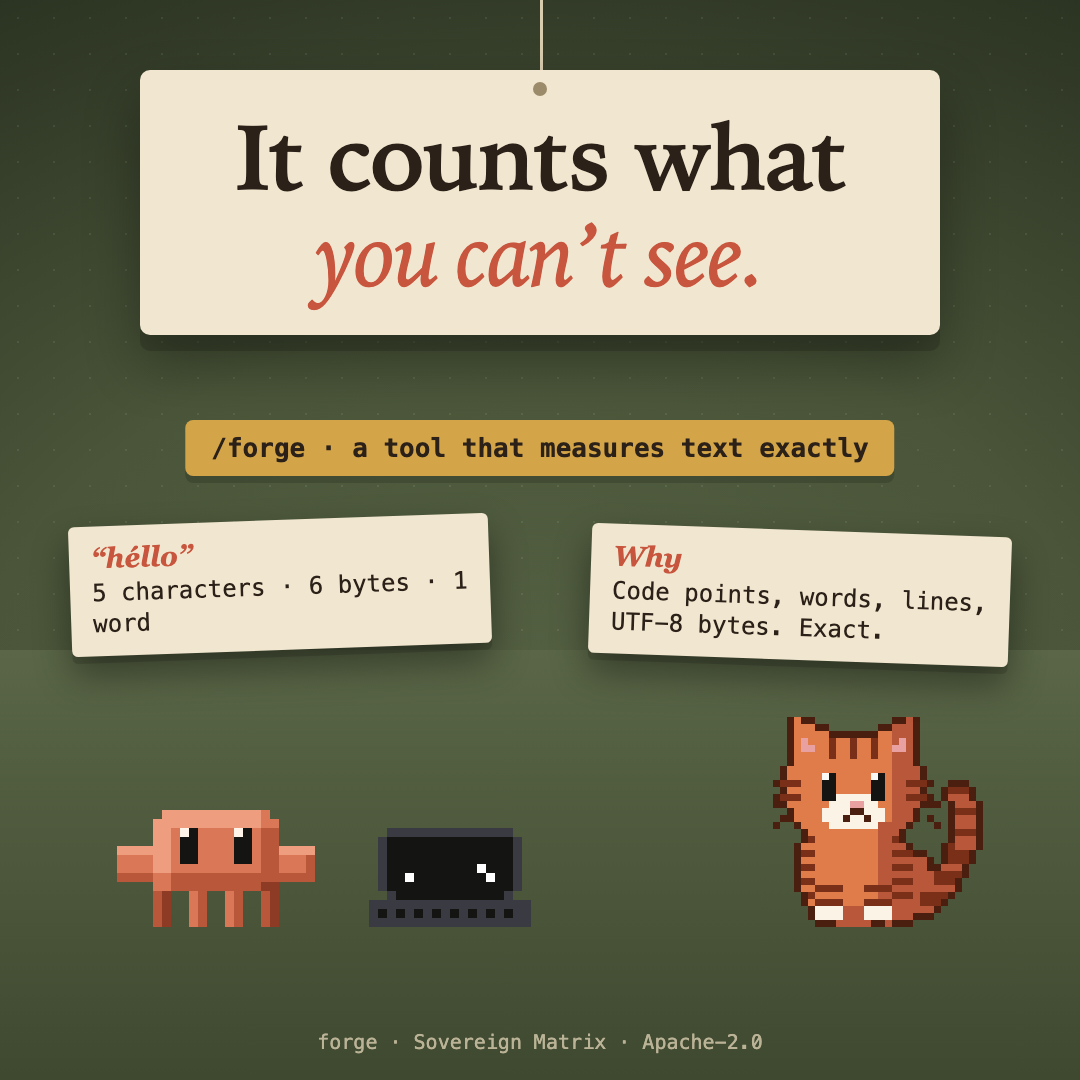
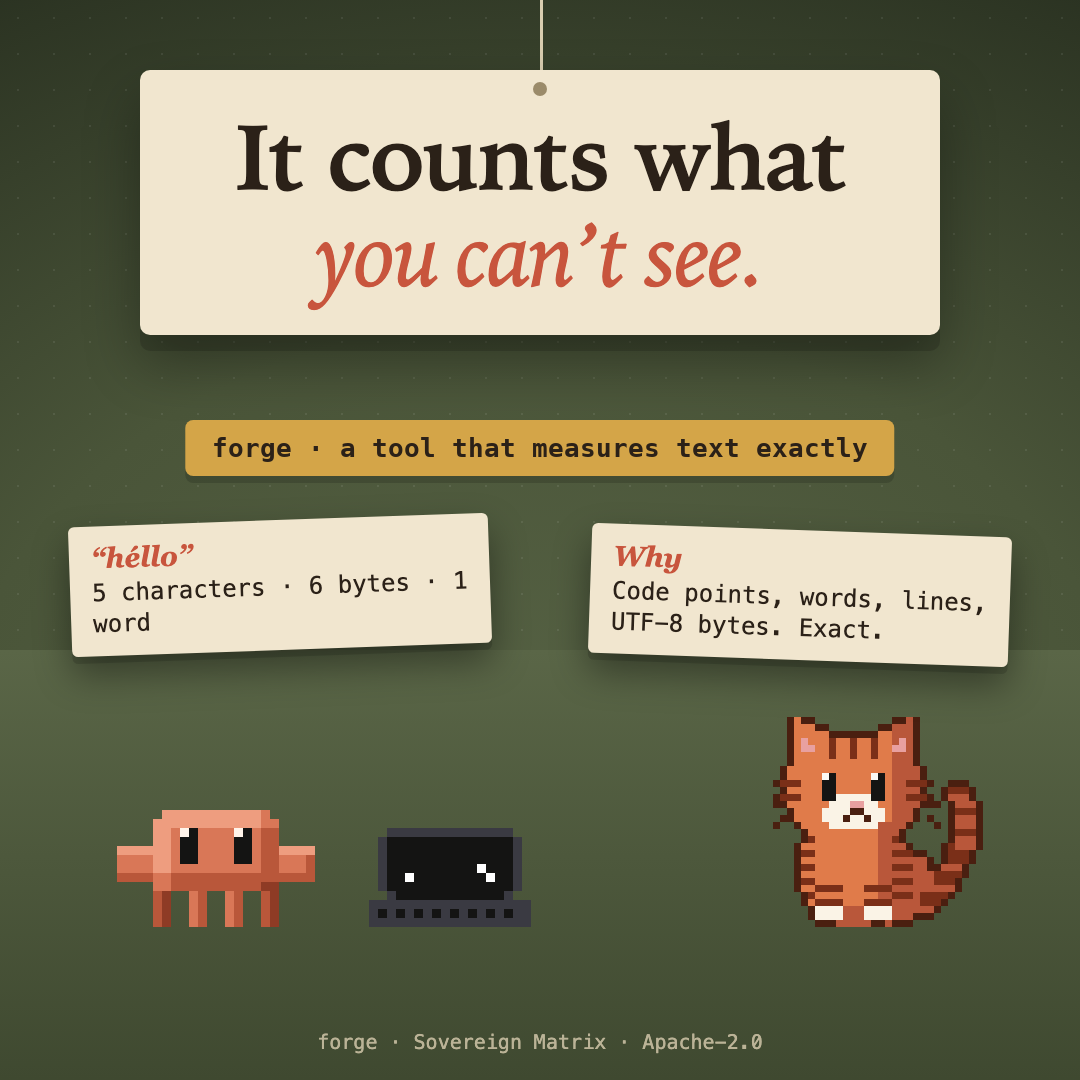
critter-buddy 0.10.0: the family painted in the prompt box, moods in words, a horizon, a sun and a moon; forge's preview no longer says /forge

Changed region(s): [[0.1833, 0.3972, 0.7944, 0.4278]]

diff --git a/plugins/critter-buddy/hooks/register.tsx b/plugins/critter-buddy/hooks/register.tsx
@@ -2,7 +2,7 @@ import { atom, read, update } from 'claude-code'
 import type { Register } from 'claude-code'
 
 import type { Look, Scene } from '../types'
-import { NAMES_DEFAULT, FEELS, stepFeel, cadence, controlLabels, suggest, draftRuns, diaryMarkdown, diaryParts, catchIn, cleanName, named, faceRuns, faceSvg, initial, paint, paintBig, paintBigSvg, paintOrb, paintOrbSvg, paintSvg, paintWizard, paintWizardSvg, poke, quip, react, startGame, step, stopGame } from './scene'
+import { NAMES_DEFAULT, FEELS, moodLine, skyOf, stepFeel, cadence, controlLabels, suggest, draftRuns, diaryMarkdown, diaryParts, catchIn, cleanName, named, faceRuns, faceSvg, initial, paint, paintBig, paintBigSvg, paintOrb, paintOrbSvg, paintSvg, paintWizard, paintWizardSvg, poke, quip, react, startGame, step, stopGame } from './scene'
 import type { Feel, Names, FaceKind, Reaction, Run, Svgd } from './scene'
 
 // `shape` tags the stored form: a value an earlier version stored is declined, not misread.
@@ -55,7 +55,6 @@ const hourOf = (ms: number) => Math.floor(ms / 3_600_000 + 2) % 24
 const isNight = (ms: number) => hourOf(ms) >= 18 || hourOf(ms) < 6
 const hhmm = (ms: number) => `${String(hourOf(ms)).padStart(2, '0')}:${String(Math.floor(ms / 60_000) % 60).padStart(2, '0')}`
 
-const bar = (n: number) => '█'.repeat(Math.round(n / 10)) + '░'.repeat(10 - Math.round(n / 10))
 const moodOf = (s: Scene) => (s.trust < 30 ? 'sulking' : s.trust > 80 ? 'devoted' : s.joy > 75 ? 'pleased' : 'unbothered')
 const pick = <T,>(list: readonly T[], key: string): T => {
   let h = 7
@@ -94,13 +93,6 @@ const kit = (els: any, surface: string) => {
   const face = (kind: FaceKind) => (vector ? svg(faceSvg(kind, 1), `the critter's face: ${kind}`) : faceOf(Text, kind))
   return { Box, Text, Button, vector, svg, face }
 }
-
-// Night's sky for the desktop backdrop: stars at fixed places, so a redraw does not shuffle them.
-const STARS = Array.from({ length: 22 }, (_, i) => {
-  const a = Math.imul(i + 1, 2654435761) >>> 0
-  const b = Math.imul(i + 11, 1664525) >>> 0
-  return { top: a % 34, left: b % 150, big: i % 5 === 0 }
-})
 
 /** A short sound, only when the person has turned sound on; a player that is missing never matters. */
 const ring = async ($: any, which: 'cast' | 'purr') => {
@@ -594,16 +586,19 @@ export const register: Register = on => {
   // ---- the window behind the conversation: cream Day, glass Night with a few stars (the desktop app only) ----
   on('ui.render', { component: 'Backdrop' }, async ($, e, next) => {
     if (e.props.plugin !== 'critter-buddy') return next(e)
-    const night = (await read($, world)) === 'night'
-    const { Box, Text, face, vector, svg } = kit($.ui.resolve(e), e.surface)
+    const sky = skyOf((await read($, world)) === 'night' ? 'night' : 'day')
+    const { Box, Text } = kit($.ui.resolve(e), e.surface)
     return (
-      <Box position="absolute" top={0} left={0} width="100%" height="100%" backgroundColor={night ? '#141413' : '#faf9f5'}>
-        {night &&
-          STARS.map((st, i) => (
-            <Box key={`s${i}`} position="absolute" top={st.top} left={st.left}>
-              <Text color={st.big ? '#d4a548' : '#8f7cc4'} dimColor={!st.big}>{st.big ? '✦' : '·'}</Text>
-            </Box>
-          ))}
+      <Box position="absolute" top={0} left={0} width="100%" height="100%" backgroundColor={sky.paper}>
+        <Box position="absolute" bottom={0} left={0} width="100%" height="30%" backgroundColor={sky.ground} />
+        <Box position="absolute" top={2} right={6}>
+          <Text color={sky.bodyColor}>{sky.body}</Text>
+        </Box>
+        {sky.stars.map((st, i) => (
+          <Box key={`s${i}`} position="absolute" top={st.top} left={st.left}>
+            <Text color={st.big ? '#d4a548' : '#8f7cc4'} dimColor={!st.big}>{st.big ? '✦' : '·'}</Text>
+          </Box>
+        ))}
       </Box>
     )
   }).catch(($, e, next) => next(e))
@@ -611,13 +606,14 @@ export const register: Register = on => {
   // ---- the stage: our own critter alone on an empty screen, walking and idling as the session runs ----
   on('ui.render', { component: 'Pane', requestId: STAGE }, async ($, e) => {
     const s = await read($, scene)
+    const nmS = await read($, names)
     const { Box, Text, Button, vector, svg } = kit($.ui.resolve(e), e.surface)
     const cols = Math.min(72, e.props.bodyColumns || 60)
     // the cat is off the stage; the critter keeps to what it is doing, else it idles
     const alone: Scene = { ...s, cols, kx: -80, look: s.look === 'wizard' || s.look === 'done' ? s.look : 'idle' }
     return (
       <Box flexDirection="column">
-        <Text bold>{'Stage'}</Text>
+        <Text bold>{`${nmS.pip}'s stage · ${(await read($, world)) === 'night' ? 'night' : 'day'}`}</Text>
         {vector ? svg(paintSvg(alone, 5), 'The critter alone on a stage, walking and idling') : rowsOf(Text, paint(alone), 's')}
         <Text dimColor>{`${s.label} · ${s.tools} tools · ${s.skills} skills`}</Text>
         <Box flexDirection="row">
@@ -654,8 +650,8 @@ export const register: Register = on => {
               </Text>
             ))}
         <Text bold>{'Moods'}</Text>
-        <Text>{`trust ${bar(s.trust)} ${Math.round(s.trust)}`}</Text>
-        <Text>{`joy   ${bar(s.joy)} ${Math.round(s.joy)}`}</Text>
+        <Text>{moodLine('trust', s.trust)}</Text>
+        <Text>{moodLine('joy', s.joy)}</Text>
         <Text dimColor>{`${s.stats.turns} turns · ${s.tools} tools · ${s.skills} skills · ${s.stats.errors} errors · ${s.stats.pets} pets · ${s.stats.commits} commits · ${s.stats.knocks} knocked off`}</Text>
         <Box flexDirection="row">
           <Button key="p" label="pet" hotkey="p" onPress={() => update($, scene, (x: Scene): Scene => react(x, 'pet'))} />

diff --git a/plugins/critter-buddy/tests/critter.test.tsx b/plugins/critter-buddy/tests/critter.test.tsx
@@ -1,7 +1,7 @@
 import { expect, test } from 'claude-code/testing'
 
 import type { Look, Scene } from '../types'
-import { cadence, suggest, stepFeel, FEELS, controlLabels, draftRuns, diaryMarkdown, diaryParts, NAMES_DEFAULT, cleanName, named, CAT_H, CAT_W, CRIT_W, LAPTOP_W, H, PORTRAIT_W, canvasOf, paintBigSvg, portraitCanvas, catchIn, faceRuns, faceSvg, initial, paintOrbSvg, paintSvg, paintWizardSvg, svgOf, isAsleep, paint, paintBig, paintOrb, paintWizard, quip, react, startGame, step, WIZARD_COLS } from '../hooks/scene'
+import { cadence, suggest, moodLine, skyOf, stepFeel, FEELS, controlLabels, draftRuns, diaryMarkdown, diaryParts, NAMES_DEFAULT, cleanName, named, CAT_H, CAT_W, CRIT_W, LAPTOP_W, H, PORTRAIT_W, canvasOf, paintBigSvg, portraitCanvas, catchIn, faceRuns, faceSvg, initial, paintOrbSvg, paintSvg, paintWizardSvg, svgOf, isAsleep, paint, paintBig, paintOrb, paintWizard, quip, react, startGame, step, WIZARD_COLS } from '../hooks/scene'
 
 test('the cat sprite is rectangular, sixteen by twenty, in every pose', () => {
   const base = { ...initial(), cols: 40, cx: -40, kx: 6 }
@@ -592,6 +592,7 @@ test('the backdrop is cream by day and a starry glass by night, and only for thi
   await $.session.start({ cwd: '/', surface: 'desktop', isInteractive: true }) // the stub clock reads 03:00, so night
   const ui = await $.ui.mount({ ...row('Backdrop', { id: 'night', plugin: 'critter-buddy', glass: { blur: 18, opacity: 0.6 } }), surface: 'desktop' } as never)
   expect(await ui.find({ type: 'Text', text: /[✦·]/ })).toBeDefined()
+  expect(await ui.find({ type: 'Text', text: /☾/ })).toBeDefined() // a moon by night
   await ui.unmount()
   const other = await $.ui.mount({ ...row('Backdrop', { id: 'x', plugin: 'someone-else', glass: false }), surface: 'desktop' } as never)
   expect(await other.find({ type: 'Text', text: /engine/ })).toBeDefined() // another plugin's backdrop is left alone
@@ -922,4 +923,54 @@ test('/critter feel sets the dial, says so, offers its words, and calm silences 
   expect(suggest('/critter ', 9).map(r => r.text)).toContain('feel')
   expect(draftRuns('/critter feel calm', NAMES_DEFAULT)[2]).toMatchObject({ color: '#4fa39a' })
   expect(draftRuns('/critter feel loud', NAMES_DEFAULT)[2]).toMatchObject({ color: '#d4a548', underline: true })
+})
+
+// ---- the family in the prompt box, the moods in words, the sky behind the chat ----
+test('the family commands are painted too: /diary, /stunt and /everywhere, each with its own ghost line', () => {
+  const draft = (t: string) => draftRuns(t, NAMES_DEFAULT)
+  const diary = draft('/diary')
+  expect(diary[0]).toMatchObject({ start: 0, end: 6, color: '#d97757', bold: true })
+  expect(diary.at(-1)).toMatchObject({ start: 6, end: 6, dimColor: true, virtualText: ' · what Claude did, in order' })
+  expect(draft('/diary copy')[1]).toMatchObject({ start: 7, end: 11, color: '#4fa39a' })
+  expect(draft('/diary copy').at(-1)!.virtualText).toBe(' · the whole session, as markdown')
+  expect(draft('/diary clone')[1]).toMatchObject({ color: '#d4a548', underline: true })
+  expect(draft('/stunt').at(-1)!.virtualText).toBe(' · the critter in a pane, a card per call')
+  expect(draft('/everywhere').at(-1)!.virtualText).toBe(' · your three most-used tools')
+  expect(draft('/diaryish')).toEqual([])
+  expect(draft('/critter').length).toBe(1) // the bare /critter stays quiet, as before
+})
+
+test('the moods are said in words as well as bars', () => {
+  expect(moodLine('trust', 12)).toBe('trust █░░░░░░░░░ 12 · wary')
+  expect(moodLine('trust', 50)).toContain('· warming')
+  expect(moodLine('trust', 70)).toContain('· fond')
+  expect(moodLine('trust', 95)).toContain('· devoted')
+  expect(moodLine('joy', 10)).toContain('· flat')
+  expect(moodLine('joy', 50)).toContain('· content')
+  expect(moodLine('joy', 70)).toContain('· bright')
+  expect(moodLine('joy', 90)).toContain('· delighted')
+  expect(moodLine('joy', 150)).toContain('100') // out of range is held to the scale
+})
+
+test('the sky: a sun by day and a moon by night, a horizon either way, and the stars stay put', () => {
+  expect(skyOf('day')).toMatchObject({ body: '●', bodyColor: '#d4a548', ground: '#f2eee3', paper: '#faf9f5' })
+  expect(skyOf('night')).toMatchObject({ body: '☾', bodyColor: '#efe4c4', ground: '#1c1b19', paper: '#141413' })
+  expect(skyOf('night').stars.length).toBe(22)
+  expect(JSON.stringify(skyOf('night').stars)).toBe(JSON.stringify(skyOf('night').stars))
+  expect(skyOf('day').stars.length).toBe(0)
+})
+
+test('the stage names whose it is and what hour, and the corner shows the moods in words', async ($, on) => {
+  stub(on)
+  on('command.register', () => ({ value: { command: 'critter' } }))
+  on('session.start', (_, e) => ({ cwd: e.cwd }))
+  on('store.get', () => ({ value: undefined }))
+  await $.session.start({ cwd: '/', surface: 'desktop', isInteractive: true })
+  const stage = await $.ui.mount({ plugin: 'critter-buddy', component: 'Pane', requestId: 'stage', props: { bodyColumns: 60 }, surface: 'desktop' } as never)
+  expect(await stage.find({ type: 'Text', text: /Pip's stage · night/ })).toBeDefined() // the stub clock reads 03:00
+  await stage.unmount()
+  const corner = await $.ui.mount({ plugin: 'critter-buddy', component: 'Pane', requestId: 'cat-corner', props: { bodyColumns: 60 }, surface: 'desktop' } as never)
+  expect(await corner.find({ type: 'Text', text: /trust .* · (wary|warming|fond|devoted)/ })).toBeDefined()
+  expect(await corner.find({ type: 'Text', text: /joy .* · (flat|content|bright|delighted)/ })).toBeDefined()
+  await corner.unmount()
 })

diff --git a/plugins/critter-buddy/hooks/scene.ts b/plugins/critter-buddy/hooks/scene.ts
@@ -781,7 +781,25 @@ const ARGS: Record<string, string[]> = { cat: COATS_LIST, wizard: ['auto', 'gold
  * Runs to paint over a /critter draft: the command in clay, a word it knows in teal, a stray word underlined in gold, and a dim
  * ghost line after a finished word saying what it does. Pure: the draft in, runs out. Any other draft is left alone.
  */
+const FAMILY: Record<string, { ghost: string; subs?: Record<string, string> }> = {
+  diary: { ghost: 'what Claude did, in order', subs: { copy: 'the whole session, as markdown', clear: 'empty it' } },
+  stunt: { ghost: 'the critter in a pane, a card per call' },
+  everywhere: { ghost: 'your three most-used tools' },
+}
 export const draftRuns = (text: string, n: Names = NAMES_DEFAULT): DraftRun[] => {
+  const fam = /^\/(diary|stunt|everywhere)(?=\s|$)/.exec(text)
+  if (fam) {
+    const f = FAMILY[fam[1]!]!
+    const end = fam[0].length
+    const out: DraftRun[] = [{ start: 0, end, color: CLAY, bold: true }]
+    const words = [...text.matchAll(/\S+/g)].slice(1)
+    const sub = words[0]
+    if (!sub) return [...out, { start: end, end, dimColor: true, virtualText: ` · ${f.ghost}` }]
+    const hit = f.subs?.[sub[0].toLowerCase()]
+    out.push(hit ? { start: sub.index!, end: sub.index! + sub[0].length, color: TEAL } : { start: sub.index!, end: sub.index! + sub[0].length, color: GOLD, underline: true })
+    if (hit && words.length === 1) out.push({ start: text.length, end: text.length, dimColor: true, virtualText: ` · ${hit}` })
+    return out
+  }
   const m = /^\/critter(?=\s|$)/.exec(text)
   if (!m) return []
   const out: DraftRun[] = [{ start: 0, end: 8, color: CLAY, bold: true }]
@@ -846,6 +864,32 @@ export const stepFeel = (s: Scene, feel: Feel): Scene => {
   const idleish = (s.look === 'idle' || s.look === 'done') && !isAsleep(s)
   return s.jt === 0 && n.jt === 0 && idleish && n.seed % 17 === 0 ? { ...n, jt: 1 } : n
 }
+
+
+// ---- the moods, in words ------------------------------------------------------------
+const barOf = (v: number) => '█'.repeat(Math.round(v / 10)) + '░'.repeat(10 - Math.round(v / 10))
+const MOOD_WORDS = {
+  trust: [[30, 'wary'], [60, 'warming'], [80, 'fond'], [101, 'devoted']],
+  joy: [[30, 'flat'], [60, 'content'], [80, 'bright'], [101, 'delighted']],
+} as const
+/** One mood as a line: its name, its bar, its number and a word for it. */
+export const moodLine = (which: 'trust' | 'joy', v: number): string => {
+  const x = Math.max(0, Math.min(100, Math.round(v)))
+  const word = MOOD_WORDS[which].find(([lim]) => x < lim)![1]
+  return `${which.padEnd(5)} ${barOf(x)} ${x} · ${word}`
+}
+
+// ---- the sky behind the chat --------------------------------------------------------
+const SKY_STARS = Array.from({ length: 22 }, (_, i) => {
+  const a = Math.imul(i + 1, 2654435761) >>> 0
+  const b = Math.imul(i + 11, 1664525) >>> 0
+  return { top: a % 34, left: b % 150, big: i % 5 === 0 }
+})
+/** The window behind the conversation: paper, a ground band, a sun or a moon, and by night a few stars at fixed places. */
+export const skyOf = (w: 'day' | 'night') =>
+  w === 'night'
+    ? { paper: '#141413', ground: '#1c1b19', body: '☾', bodyColor: '#efe4c4', stars: SKY_STARS }
+    : { paper: '#faf9f5', ground: '#f2eee3', body: '●', bodyColor: '#d4a548', stars: [] as typeof SKY_STARS }
 
 // ---- cadence -------------------------------------------------------------------
 /**

diff --git a/plugins/critter-buddy/CHANGELOG.md b/plugins/critter-buddy/CHANGELOG.md
@@ -1,5 +1,11 @@
 # Changelog
 
+## 0.10.0
+
+- The prompt box paints the family too: `/diary` (with `copy` and `clear`), `/stunt` and `/everywhere`, each with a dim ghost line saying what it does.
+- The cat corner says its moods in words (`trust ███░░░░░░░ 30 · warming`). The stage names whose it is and the hour (`Pip's stage · night`).
+- The backdrop has a ground band, a sun by day and a moon by night, and the stars by night. It is the same two worlds, drawn with a horizon.
+
 ## 0.9.1
 
 - Fixed: 0.9.0 did not pass `claude plugin validate --strict`: the feel setting was missing from the manifest's types contract. It is declared now.
